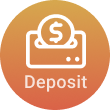
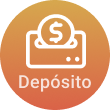
fix: [br1] Amend translation

Changed region(s): [[0.1636, 0.6545, 0.8455, 0.8455]]

diff --git a/br1-static-v1/src/pages/account/WithdrawMethodView.vue b/br1-static-v1/src/pages/account/WithdrawMethodView.vue
@@ -317,7 +317,7 @@
                     class="minmax-btn"
                     rounded
                     color="black"
-                    label="min"
+                    label="mín"
                     dense
                     no-caps
                     @click="toggleAmount('min')"
@@ -344,7 +344,7 @@
                     class="minmax-btn"
                     rounded
                     color="black"
-                    label="Max"
+                    label="Máx"
                     dense
                     no-caps
                     @click="toggleAmount('max')"
@@ -356,7 +356,7 @@
 
           <div class="fund-container q-mt-sm q-mb-md">
             <div>
-              <span class="fund-title">Available:</span>
+              <span class="fund-title">Disponível:</span>
               {{ store.currency.label }} {{ convertToCommaAmount(selectedMethodItem.withdrawableBalance) }}
             </div>
           </div>
@@ -373,7 +373,7 @@
             </div>
             <div class="info">
               <div class="desc-wrapper">
-                <div class="desc">{{ store.vip }} {{ $t("withdraw.dailyLimit") }}</div>
+                <div class="desc">{{ $t("withdraw.dailyLimit") }} {{ store.vip }}</div>
               </div>
               <div class="desc desc_white">
                 <!-- {{ store.currency.label }}:{{ convertToCommaAmount(withdrawalMethods[withdrawalDialogTab].withdrawMaxAmount) }} -->
@@ -382,7 +382,7 @@
             </div>
             <div class="info">
               <div class="desc-wrapper">
-                <div class="desc">Remain Wagers</div>
+                <div class="desc">{{ $t('withdraw.remainWagers') }}</div>
               </div>
               <div class="desc desc_white">
                 <!-- {{ store.currency.label }}:{{ convertToCommaAmount(withdrawalMethods[withdrawalDialogTab].remainWagers) }} -->
@@ -400,7 +400,7 @@
               size="2em"
               :thickness="2"
             ></q-spinner>
-            <template v-else>Submit</template>
+            <template v-else>{{ $t("btn.submit") }}</template>
           </div>
         </template>
 
@@ -412,7 +412,7 @@
               size="2em"
               :thickness="2"
             ></q-spinner>
-            <template v-else>Submit</template>
+            <template v-else>{{ $t("btn.submit") }}</template>
           </div>
         </template>
         <div v-if="selectedMethodItem.tips" class="withdraw-tip-wrapper" v-html="selectedMethodItem.tips"></div>

diff --git a/br1-static-v1/src/components/modal/WithdrawalModal.vue b/br1-static-v1/src/components/modal/WithdrawalModal.vue
@@ -171,7 +171,7 @@
                 (val) => !!val || 'Please Enter Withdraw Amount',
                 (val) => val > 0 || 'Withdraw Amount Must Be Greater Than 0',
                 (val) =>
-                  val < withdrawalMethods[withdrawalDialogTab].withdrawableBalance || `Withdraw Amount Insufficient`,
+                  val < withdrawalMethods[withdrawalDialogTab].withdrawableBalance || `Valor da Retirada Insuficiente`,
                 (val) =>
                   (val >= withdrawalMethods[withdrawalDialogTab].withdrawMin &&
                     val <= withdrawalMethods[withdrawalDialogTab].withdrawMax) ||
@@ -198,14 +198,14 @@
             <div class="info">
               <div class="desc-wrapper">
                 <div class="yel-dot"></div>
-                <div class="desc">{{ store.vip }} Daily Limit</div>
+                <div class="desc">{{ $t("withdraw.dailyLimit") }} {{ store.vip }}</div>
               </div>
               <div class="desc">{{ store.currency.label}}:{{ withdrawalMethods[withdrawalDialogTab].withdrawMax }}</div>
             </div>
             <div class="info">
               <div class="desc-wrapper">
                 <div class="yel-dot"></div>
-                <div class="desc">Remain Wagers</div>
+                <div class="desc">{{ $t('withdraw.remainWagers') }}</div>
               </div>
               <div class="desc">{{ store.currency.label}}:{{ withdrawalMethods[withdrawalDialogTab].remainWagers }}</div>
             </div>
@@ -214,14 +214,14 @@
 
         <template v-if="bankCardList.length > 0">
           <ConfirmButton
-            label="Submit"
+            label="Enviar"
             :confirmFunc="submitWithdraw"
             :isLoading="isLoadingBankCard || isLoadingWithdrawalMethod || isSubmitDisable"
           ></ConfirmButton>
         </template>
         <template v-else>
           <ConfirmButton
-            label="Submit"
+            label="Enviar"
             :confirmFunc="submitWithdrawBank"
             :isLoading="isLoadingBankCard || isLoadingWithdrawalMethod || isSubmitDisable"
           ></ConfirmButton>

diff --git a/br1-static-v1/src/i18n/pt.js b/br1-static-v1/src/i18n/pt.js
@@ -77,7 +77,7 @@ export default {
     promo: "Promoção",
     earnMoney: "Ganhe Dinheiro",
     wallet: "Carteira",
-    me: "Meu"
+    me: "Minha Conta"
   },
   form: {
     prependNumber: "+55",
@@ -88,7 +88,7 @@ export default {
     phone_rules_03: "O número de telefone não deve começar com '0'",
     phone_rules_04: "Por favor insira o número de conta correto",
     password: "Senha",
-    password_placeholder: "Por favor, digite a senha",
+    password_placeholder: "Insira a Senha",
     password_rules_01: "Por favor, insira a senha",
     password_rules_02: "Os caracteres da senha devem ser maiores que 6",
     forgotPassword: "Esqueceu sua senha",
@@ -126,7 +126,7 @@ export default {
     withdrawalAmount_placeholder: "Valor de Retirada",
     withdrawalAmount_rules_01: "Por favor, insira o valor da retirada",
     withdrawalAmount_rules_02: "O valor da retirada deve ser maior que 0",
-    withdrawalAmount_rules_03: "Saldo insuficiente para retirada",
+    withdrawalAmount_rules_03: "Valor da Retirada Insuficiente",
     withdrawalAmount_rules_04: "O valor da retirada deve estar entre",
     realTimeExchangeRates: "Taxas de Câmbio em Tempo Real",
     estimatedArrival: "Estimativa de chegada",
@@ -236,7 +236,7 @@ export default {
     loading: "Carregando",
     loading_plsWait: "Carregando... Por favor, aguarde...",
     loading_data: "Carregando dados... Por favor, aguarde...",
-    logging_in: "Efetuando login",
+    logging_in: "Entrando",
     cancel: "Cancelar",
     signOut: "Sair",
     back: "Voltar",
@@ -292,13 +292,13 @@ export default {
     menu_fish: "Pesca",
     menu_slot: "Caça-Níqueis",
     menu_poker: "Poker",
-    menu_sport: "Sport",
+    menu_sport: "Esporte",
     cat_hotgames: "Jogos Populares",
     cat_livecasino: "Cassino Ao Vivo",
     cat_slotsgame: "Jogos de Caça-Níqueis",
     cat_fishing: "Pesca",
     cat_poker: "Poker",
-    cat_sport: "Sport"
+    cat_sport: "Esporte"
   },
   settings: {
     totalScore: "Pontuação Total",

diff --git a/br1-static-v1/src/pages/account/WithdrawView.vue b/br1-static-v1/src/pages/account/WithdrawView.vue
@@ -154,7 +154,7 @@
           :rules="[
             (val) => !!val || 'Please Enter Withdraw Amount',
             (val) => val > 0 || 'Withdraw Amount Must Be Greater Than 0',
-            (val) => val < withdrawalMethods[withdrawalDialogTab].withdrawableBalance || `Withdraw Amount Insufficient`,
+            (val) => val < withdrawalMethods[withdrawalDialogTab].withdrawableBalance || `Valor da Retirada Insuficiente`,
             (val) =>
               (val >= withdrawalMethods[withdrawalDialogTab].withdrawMin &&
                 val <= withdrawalMethods[withdrawalDialogTab].withdrawMax) ||
@@ -174,7 +174,7 @@
         </div>
         <div class="info">
           <div class="desc-wrapper">
-            <div class="desc">{{ store.vip }} Daily Limit</div>
+            <div class="desc">{{ $t("withdraw.dailyLimit") }} {{ store.vip }}</div>
           </div>
           <div class="desc">
             {{ store.currency.label }}:{{ convertToCommaAmount(withdrawalMethods[withdrawalDialogTab].withdrawMaxAmount) }}
@@ -182,7 +182,7 @@
         </div>
         <div class="info">
           <div class="desc-wrapper">
-            <div class="desc">Remain Wagers</div>
+            <div class="desc">{{ $t('withdraw.remainWagers') }}</div>
           </div>
           <div class="desc">{{ store.currency.label }}:{{ convertToCommaAmount(withdrawalMethods[withdrawalDialogTab].remainWagers) }}</div>
         </div>
@@ -197,7 +197,7 @@
           size="2em"
           :thickness="2"
         ></q-spinner>
-        <template v-else>Submit</template>
+        <template v-else>{{ $t("btn.submit") }}</template>
       </div>
     </template>
     <template v-else>
@@ -208,7 +208,7 @@
           size="2em"
           :thickness="2"
         ></q-spinner>
-        <template v-else>Submit</template>
+        <template v-else>{{ $t("btn.submit") }}</template>
       </div>
     </template>
 

diff --git a/br1-static-v1/src/i18n/en.js b/br1-static-v1/src/i18n/en.js
@@ -88,11 +88,11 @@ export default {
     phone_rules_03: "The phone number must not start with '0'",
     phone_rules_04: "Please insert the correct account number",
     password: "Password",
-    password_placeholder: "Please enter password",
+    password_placeholder: "Enter password",
     password_rules_01: "Please insert password",
     password_rules_02: "The characters of password must be above 6",
     forgotPassword: "Forgot Password",
-    forgotPassword_desc: "Please Provide Your Phone Number, We Will Send OTP To Your Registered Phone Number.",
+    forgotPassword_desc: "Por favor, forneça seu nome de usuário e número de telefone, enviaremos um OTP para seu número registrado.",
     register_agree_01: "I have Agree To The ",
     register_agree_02: "Use Privacy Agreement",
     email: "Email",

diff --git a/br1-static-v1/src/pages/account/MailboxView.vue b/br1-static-v1/src/pages/account/MailboxView.vue
@@ -114,7 +114,7 @@
                   v-model="mailboxState.mailboxList.write.content"
                   placeholder="Contents"
                 />
-                <q-btn color="brand" @click="onSubmit" label="Submit" />
+                <q-btn color="brand" @click="onSubmit" label="Enviar" />
               </q-form>
             </div>
           </div>

diff --git a/br1-static-v1/src/pages/RegisterPage.vue b/br1-static-v1/src/pages/RegisterPage.vue
@@ -296,7 +296,7 @@ export default defineComponent({
                 $q.notify({
                   color: "positive",
                   position: "top",
-                  message: "Registered successfully",
+                  message: "Registrado com sucesso",
                   icon: "check_circle_outline"
                 });
 

diff --git a/br1-static-v1/src/components/modal/GameModal.vue b/br1-static-v1/src/components/modal/GameModal.vue
@@ -32,7 +32,7 @@
 
         <div class="loader-container">
           <div><q-spinner color="yellow" size="10em" :thickness="10" /></div>
-          <div>Loading... Please wait...</div>
+          <div>Carregando... Please wait...</div>
         </div>
 
         <template v-if="isInnerHtmlSrc === false">

diff --git a/br1-static-v1/src/pages/LoginPage.vue b/br1-static-v1/src/pages/LoginPage.vue
@@ -36,7 +36,7 @@
           autocomplete="current-password"
           outlined
           color="white"
-          :placeholder="$t('form.password')"
+          :placeholder="$t('form.password_placeholder')"
           class="landing-input login-form-field"
         >
           <template v-slot:append>

diff --git a/br1-static-v1/src/components/KYCGuestForm.vue b/br1-static-v1/src/components/KYCGuestForm.vue
@@ -72,7 +72,7 @@
       :disable="!(isValidName() === true && isValidPhone() === true)"
       @click="submitKYCNewGuest"
     >
-      Submit
+      {{ $t("btn.submit") }}
     </q-btn>
   </div>
 </template>

diff --git a/br1-static-v1/src/pages/AccountPage.vue b/br1-static-v1/src/pages/AccountPage.vue
@@ -203,7 +203,7 @@
             "
             @click="submitKYC"
           >
-            Submit
+            {{ $t("btn.submit") }}
           </q-btn>
         </div>
       </div>
